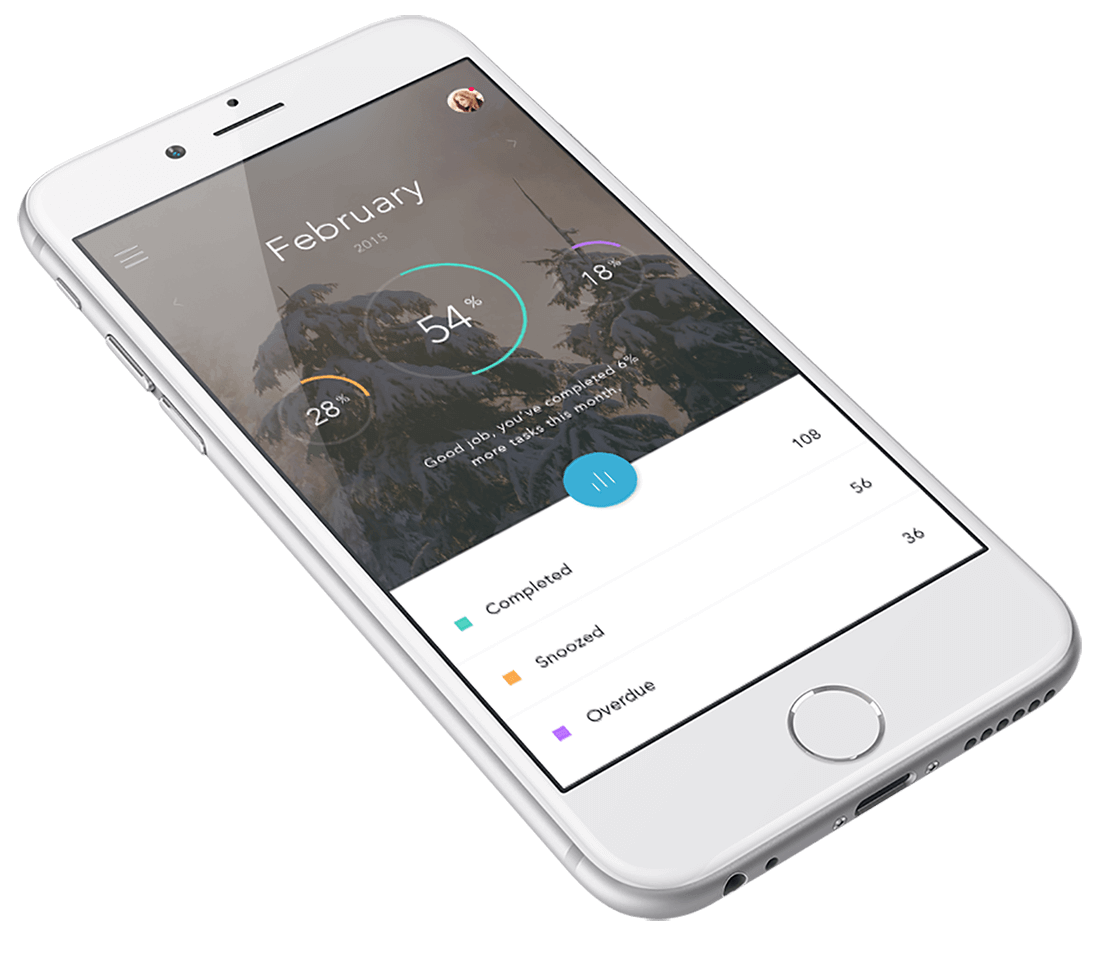
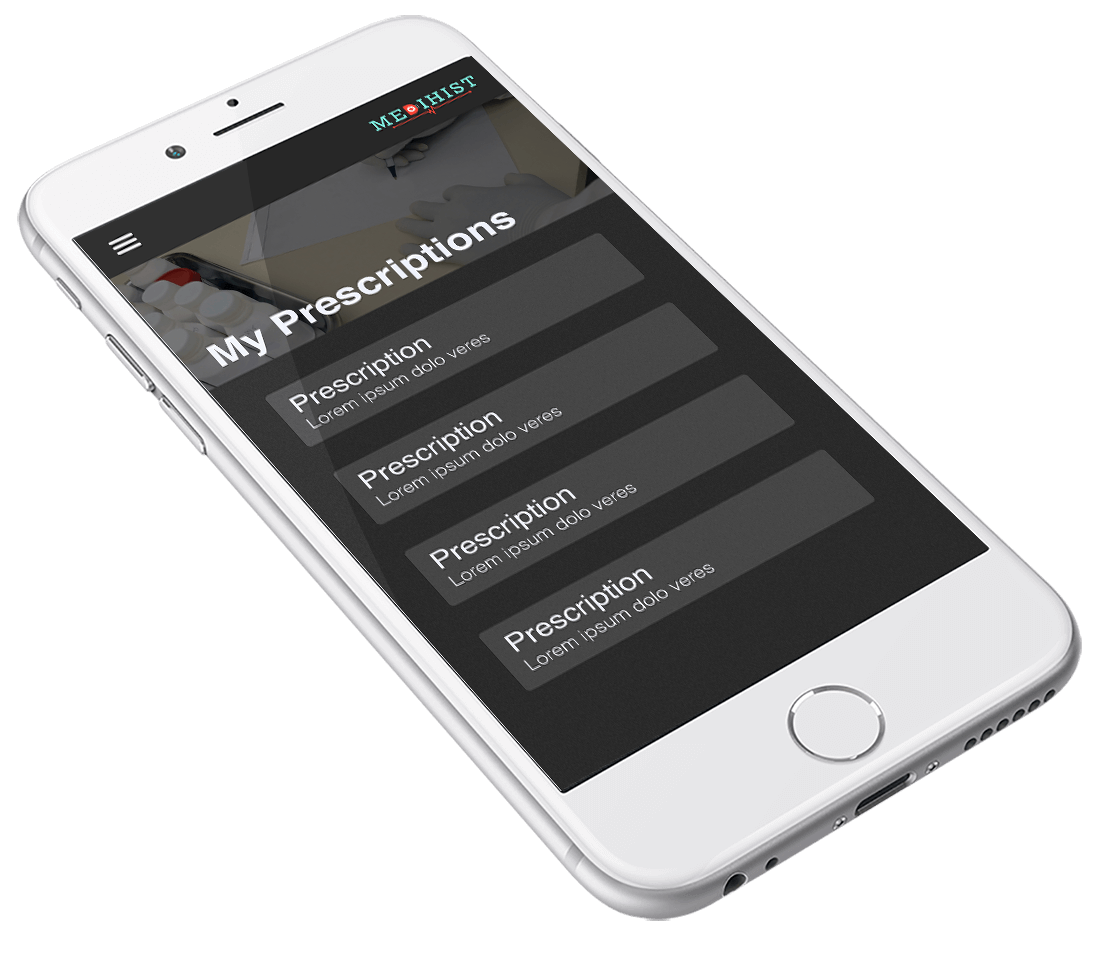
Content added

Changed region(s): [[0.0614, 0.0606, 0.8899, 0.8182]]

diff --git a/index.html b/index.html
@@ -371,129 +371,6 @@
     </div>
   </section>
 
-
-  <!-- ============================
-       Function 2 Section
-  ================================= -->
-
-  <section id="function-2" class="bg-dark section-p-lg pos-relative ov-hidden">
-    <div class="container wrapper-h-xs-lg reveal-bottom-opacity">
-      <div class="row">
-
-        <!-- Function 2 Block -->
-        <div class="col-sm-6 wrapper-v-lg">
-
-          <!-- Headline -->
-          <h2>Full functionality<br></h2>
-          <!-- /End Headline -->
-
-          <!-- Description -->
-          <p>Itatendam utentotatiat volupta expero ma volorum quiam vel estioreped erae rendipsa
-            nulluptur ressunt eatistis etur, eatisti aut militat. Ate reicipid quidestia vent.
-          </p>
-          <!-- /End Description -->
-
-          <div class="row">
-            <div class="col-md-9 col-sm-11 wrapper-v-md">
-
-              <!-- Panel Group -->
-              <div class="panel-group text-dark" id="accordion" role="tablist"
-                   aria-multiselectable="true">
-
-                <!-- Panel 1 -->
-                <div class="panel panel-color">
-
-                  <!-- Panel Header -->
-                  <div class="panel-heading" role="tab" data-toggle="collapse"
-                       data-parent="#accordion" data-target="#collapse-1">
-                    <h4 class="panel-title">
-                      Benefit 1 <i class="icon icon-arrows-plus"></i>
-                    </h4>
-                  </div>
-                  <!-- /End Panel Header -->
-
-                  <!-- Panel Body -->
-                  <div id="collapse-1" class="panel-collapse collapse in" role="tabpanel">
-                    <div class="panel-body">
-                      Itatendam utentotatiat volupta expero ma volorum quiam vel estioreped erae
-                      rendipsa nulluptur ressunt eatistis etur, eatisti aut militat. Ate reicipid
-                      quidestia vent.
-                    </div>
-                  </div>
-                  <!-- /End Panel Body -->
-
-                </div>
-                <!-- /End Panel 1 -->
-
-                <!-- Panel 2 -->
-                <div class="panel panel-color">
-
-                  <!-- Panel Header -->
-                  <div class="panel-heading" role="tab" data-toggle="collapse"
-                       data-parent="#accordion" data-target="#collapse-2">
-                    <h4 class="panel-title">
-                      Benefit 2 <i class="icon icon-arrows-plus"></i>
-                    </h4>
-                  </div>
-                  <!-- /End Panel Header -->
-
-                  <!-- Panel Body -->
-                  <div id="collapse-2" class="panel-collapse collapse" role="tabpanel">
-                    <div class="panel-body">
-                      Itatendam utentotatiat volupta expero ma volorum quiam vel estioreped erae
-                      rendipsa nulluptur ressunt eatistis etur, eatisti aut militat. Ate reicipid
-                      quidestia vent.
-                    </div>
-                  </div>
-                  <!-- /End Panel Body -->
-
-                </div>
-                <!-- /End Panel 2 -->
-
-                <!-- Panel 3 -->
-                <div class="panel panel-color">
-
-                  <!-- Panel Header -->
-                  <div class="panel-heading" role="tab" data-toggle="collapse"
-                       data-parent="#accordion" data-target="#collapse-3">
-                    <h4 class="panel-title">
-                      Benefit 3 <i class="icon icon-arrows-plus"></i>
-                    </h4>
-                  </div>
-                  <!-- /End Panel Header -->
-
-                  <!-- Panel Body -->
-                  <div id="collapse-3" class="panel-collapse collapse" role="tabpanel">
-                    <div class="panel-body">
-                      Itatendam utentotatiat volupta expero ma volorum quiam vel estioreped erae
-                      rendipsa nulluptur ressunt eatistis etur, eatisti aut militat. Ate reicipid
-                      quidestia vent.
-                    </div>
-                  </div>
-                  <!-- /End Panel Body -->
-
-                </div>
-                <!-- /End Panel 3 -->
-
-              </div>
-              <!-- /End Panelgroup -->
-
-            </div>
-          </div>
-        </div>
-        <!-- /End Function 2 Block -->
-
-        <!-- Function 2 Watch Image -->
-        <div class="col-sm-6 image-watch">
-          <img class="reveal-right-20" src="images/function-2-device.png" alt="">
-        </div>
-        <!-- /End Function 2 Watch Image -->
-
-      </div>
-    </div>
-  </section>
-
-
   <!-- ============================
        Features Section
   ================================= -->
@@ -517,41 +394,38 @@
 
             <!-- Icon -->
             <div class="icon-md icon-color">
-              <i class="icon icon-software-paintbucket"></i>
+              <i class="fa fa-ticket fa-3x" aria-hidden="true"></i> 
             </div>
             <!-- /End Icon -->
 
             <!-- Description -->
-            <h4>Color Schemes</h4>
+            <h4>MEDIHIST ID</h4>
 
-            <p>Nimpos essiniminita porro dolestint.
-              Cuptate mporent ea consed mollabo. Et rerfercit, omnimaio magnaturiat.</p>
+            <p> A unique Medihist ID will be provided to each user. That will contain all the relevent information for a emergency.</p>
             <!-- /End Description -->
 
             <!-- Icon -->
             <div class="icon-md icon-color">
-              <i class="icon icon-basic-picture"></i>
+              <i class="fa fa-database fa-3x" aria-hidden="true"></i>
             </div>
             <!-- /End Icon -->
 
             <!-- Description -->
-            <h4>Responsive Media</h4>
+            <h4> Easy management of your data</h4>
 
-            <p>Nimpos essiniminita porro dolestint.
-              Cuptate mporent ea consed mollabo. Et rerfercit, omnimaio magnaturiat.</p>
+            <p> Now managing your health records is easier than ever </p>
             <!-- /End Description -->
 
             <!-- Icon -->
             <div class="icon-md icon-color">
-              <i class="icon icon-basic-gear"></i>
+              <i class="fa fa-clock-o fa-3x" aria-hidden="true"></i>
             </div>
             <!-- /End Icon -->
 
             <!-- Description -->
-            <h4>Cross Browser Support</h4>
+            <h4> Prescriptions tracking</h4>
 
-            <p>Nimpos essiniminita porro dolestint.
-              Cuptate mporent ea consed mollabo. Et rerfercit, omnimaio magnaturiat.</p>
+            <p>Have a habit of forgetting when to take your medicine? We've got you covered.</p>
             <!--/End Description -->
 
           </div>
@@ -564,28 +438,26 @@
 
             <!-- Icon -->
             <div class="icon-md icon-color">
-              <i class="icon icon-software-font-vertical-scale"></i>
-            </div>
+							<i class="fa fa-building-o fa-3x" aria-hidden="true"></i>
+						</div>
             <!-- /End Icon -->
 
             <!-- Description -->
-            <h4>720+ Icon Fonts</h4>
+            <h4> Book an appointment </h4>
 
-            <p>Nimpos essiniminita porro dolestint.
-              Cuptate mporent ea consed mollabo. Et rerfercit, omnimaio magnaturiat.</p>
+            <p> Book an appointment with your doctor or even a pool of doctors associated with us with just a click. </p>
             <!-- /End Description -->
 
             <!-- Icon -->
             <div class="icon-md icon-color">
-              <i class="icon icon-ecommerce-diamond"></i>
+              <i class="fa fa-comments fa-3x" aria-hidden="true"></i>
             </div>
             <!-- /End Icon -->
 
             <!-- Description -->
-            <h4>Pure & Simple</h4>
+            <h4> Consultation </h4>
 
-            <p>Nimpos essiniminita porro dolestint.
-              Cuptate mporent ea consed mollabo. Et rerfercit, omnimaio magnaturiat.</p>
+            <p> Still have a query for your doctor that you forgot to ask during your visit. Ask your queries directly with our application.</p>
             <!-- /End Description -->
 
             <!-- Icon -->
@@ -597,8 +469,7 @@
             <!-- Description -->
             <h4>More Features</h4>
 
-            <p>Nimpos essiniminita porro dolestint.
-              Cuptate mporent ea consed mollabo. Et rerfercit, omnimaio magnaturiat.</p>
+            <p> This is merely the begining we are constantly brainstorming and working hard to provide you more and more features. </p>
             <!-- /End Description -->
 
           </div>
@@ -684,7 +555,7 @@
           <div class="bg-color-dark">
 
             <!-- Video: Insert Vimeo-URL or Youtube-URL; Use attribut data-url -->
-            <div id="video-embed" class="video-wrapper" data-url="https://vimeo.com/117570710">
+            <div id="video-embed" class="video-wrapper" data-url="https://vimeo.com/">
 
               <div class="video-overlay"></div>
               <div class="playbutton">
